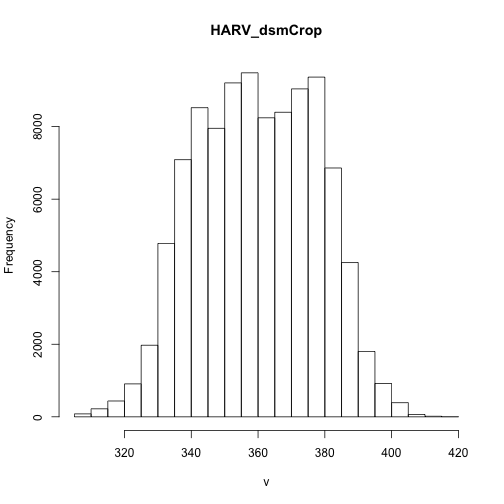
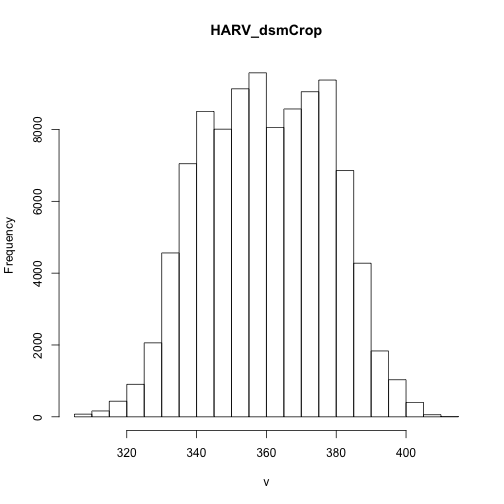
rebuilt repo

diff --git a/_posts/2015-10-26-Rast00-Raster-Structure.md b/_posts/2015-10-26-Rast00-Raster-Structure.md
@@ -4,7 +4,7 @@ title: "Lesson 00: About Raster Data"
 date:   2015-10-29
 authors: [Kristina Riemer, Zack Brym, Jason Williams, Jeff Hollister,  Mike Smorul, Leah Wasser]
 dateCreated:  2015-10-23
-lastModified: 2015-10-23
+lastModified: 2015-11-06
 category:  
 tags: [module-1]
 mainTag: GIS-Spatial-Data
@@ -21,8 +21,10 @@ comments: false
 {% include _toc.html %}
 
 ##About
-This activity will walk you through the fundamental principles of working 
-with raster data in R.
+In this lesson, we will learn 
+
+1. What raster data are and 
+2. How to open and explore raster data and properties in `R`.
 
 **R Skill Level:** Intermediate - you've got the basics of `R` down.
 
@@ -33,7 +35,9 @@ with raster data in R.
 After completing this activity, you will know:
 
 * What a raster dataset is and its fundamental attributes.
+* How to explore raster attributes in `R`
 * How to import rasters into `R` using the `raster` library.
+* How to quickly plot a raster file in `R`
 
 ###Things You'll Need To Complete This Lesson
 
@@ -57,7 +61,9 @@ Download the workshop data:
 The LiDAR and imagery data used to create the rasters in this dataset were 
 collected over the Harvard and San Joaquin field sites 
 and processed at <a href="http://www.neoninc.org" target="_blank" >NEON </a> 
-headquarters. The entire dataset can be accessed by request from the NEON website.
+headquarters. The entire dataset can be accessed by request from the 
+<a href="http://www.neoninc.org/data-resources/get-data" target="_blank"> NEON 
+website.</a>
 
 ####Recommended Pre-Lesson Reading
 
@@ -67,7 +73,7 @@ Read more about the `raster` package in R.</a>
 </div>
 
 #About Raster Data
-Raster or "gridded" data are data that are saved on a regular grid which is rendered
+Raster or "gridded" data are saved on a regular grid which is rendered
 on a map as pixels. Each pixel contains a value that represents an area on the Earth's 
 surface.
 
@@ -79,7 +85,7 @@ rasters here</a>.
 #Types of data stored as rasters
 
 Raster data can be continuous or categorical. Continuous rasters can have a 
-range of values. Some examples of continuous rasters include
+range of quantitative values. Some examples of continuous rasters include:
 
 1. Precipitation maps
 2. Maps of tree height derived from lidar data
@@ -88,10 +94,21 @@ range of values. Some examples of continuous rasters include
 A map of elevation for Harvard Forest, derived from the NEON AOP lidar sensor
 is below.
 
+
+    ## Loading required package: sp
+    ## rgdal: version: 1.1-1, (SVN revision 572)
+    ##  Geospatial Data Abstraction Library extensions to R successfully loaded
+    ##  Loaded GDAL runtime: GDAL 1.11.3, released 2015/09/16
+    ##  Path to GDAL shared files: /usr/local/Cellar/gdal/1.11.3/share/gdal
+    ##  Loaded PROJ.4 runtime: Rel. 4.9.2, 08 September 2015, [PJ_VERSION: 492]
+    ##  Path to PROJ.4 shared files: (autodetected)
+    ##  Linking to sp version: 1.2-1
+
 ![ ]({{ site.baseurl }}/images/rfigs/00-Raster-Structure/elevation-map-1.png) 
 
-We can also classify continuous rasters to identify regions that are low, medium
-and high elevation. Some examples of classified maps include
+Some rasters contain categorical data. Thus each pixel represents a class such as
+a landcover class ("forest") rathen than a continual value such as temperature.
+Some examples of classified maps include:
 
 1. landcover / landuse maps
 2. tree height maps classified short, medium, tall trees
@@ -101,11 +118,29 @@ and high elevation. Some examples of classified maps include
 
 
 #What is a geotiff??
-I think we need to introduce this format here or somewhere??
+Raster data can come in many different formats. In this lesson, we will use the 
+`geotiff` format which has the extension `.tif`. A `.tif` file can store metadata
+or attributes about the file in embedded tags. For instance, your camera might store
+a tag that describes the make and model of the camera if it saves a tiff. Or
+it might save the date the image was taken. A geotiff is a standard `.tif`  
+image format with addition spatial (georeferenceing) information embedded in the file
+as a tag. These tags can include 
+
+1. A Coordinate Reference System (CRS)
+2. Spatial Extent
+3. NoData Values 
+
+We will talk about all of these metadata tags below.
+
+More about tiffs
+
+* <a href="https://en.wikipedia.org/wiki/GeoTIFF" target="_blank"> Geotiff on Wikipedia</a>
+* <a href="https://trac.osgeo.org/geotiff/" target="_blank"> OSGEO Tiff documentation</a>
+{: notice }
 
 ##About
 
-In this lesson we will learn how to open a raster in r. We will also learn about 
+In this lesson we will learn how to open a raster in `R`. We will also learn about 
 the key metadata associated with rasters! We will use the `raster` and `rgdal`
 libraries.
 
@@ -113,6 +148,52 @@ libraries.
 
     library(raster)
     library(rgdal)
+
+##View Raster Attributes
+
+As mentioned above, a Geotiff contains a set of embedded tags that contain metadata
+about the file. We can view those tags before we open the data in `R` using the
+`GDALinfo` function. Notice a few things in the output.
+
+1. A projection is described as a string - this format is called `proj4`
+   `+proj=utm +zone=18 +datum=WGS84 +units=m +no_defs `
+2. We can se a `NoDataValue` (-9999)
+3. We can tell how many `bands` the file contains (1)
+4. We can view the x and y `resolution` of the data (1)
+5. We can see the min and max values of the data `Bmin` and `Bmax`
+
+This is great - we haven't yet opened the file but we already know some things
+about it.
+
+What else do you see in the attributes of our raster? Take note as we will 
+explore these metadata later in the lesson.
+
+
+    # view attributes before opening file
+    GDALinfo("NEON_RemoteSensing/HARV/DSM/HARV_dsmCrop.tif")
+
+    ## rows        1367 
+    ## columns     1697 
+    ## bands       1 
+    ## lower left origin.x        731453 
+    ## lower left origin.y        4712471 
+    ## res.x       1 
+    ## res.y       1 
+    ## ysign       -1 
+    ## oblique.x   0 
+    ## oblique.y   0 
+    ## driver      GTiff 
+    ## projection  +proj=utm +zone=18 +datum=WGS84 +units=m +no_defs 
+    ## file        NEON_RemoteSensing/HARV/DSM/HARV_dsmCrop.tif 
+    ## apparent band summary:
+    ##    GDType hasNoDataValue NoDataValue blockSize1 blockSize2
+    ## 1 Float64           TRUE       -9999          1       1697
+    ## apparent band statistics:
+    ##     Bmin   Bmax    Bmean      Bsd
+    ## 1 305.07 416.07 359.8531 17.83169
+    ## Metadata:
+    ## AREA_OR_POINT=Area
+
 
 ##Open up a raster in R
 
@@ -140,6 +221,7 @@ located on your computer! You can use the `setwd()` to set this.
     ## values      : 305.07, 416.07  (min, max)
 
     #quickly plot the raster
+    #note \n firces a line break in the title!
     plot(DSM, main="NEON Digital Surface Model\nHarvard Forest")
 
 ![ ]({{ site.baseurl }}/images/rfigs/00-Raster-Structure/open-raster-1.png) 
@@ -154,26 +236,29 @@ A raster will have horizontal (x and y) resolution. This resolution
 represents the area on the ground that each pixel covers. We will need to know the
 units used to calculate resolution as well. In the case of the NEON rasters, the units
 are in meters. We can find this using two methods: we can look at the `CRS` string
-which we will example in just a bit. or we can use the `DSM@data@unit` to view
-the units stored in the geotiff.
+which we will example in just a bit.
 
-#NOTE: the units aren't in the geotiff - look into whether we can add this or 
-this is another R bug!
+#NOTE: the units aren't in this geotiff. That is ok because we can find the units 
+in the `CRS`
 
 
     #view resolution units
-    DSM@data@unit
+    crs(DSM)
 
-    ## [1] ""
+    ## CRS arguments:
+    ##  +proj=utm +zone=18 +datum=WGS84 +units=m +no_defs +ellps=WGS84
+    ## +towgs84=0,0,0
+
 ## Coordinate Reference System
 
 The `Coordinate Reference System` or `CRS` is another important raster attribute.
 The `CRS` tells R where the raster is located in geographic space. It also tells 
 R what method should be used to "flatten" the raster. <<SOME LINK TO MORE ABOUT CRS>>
 
-The CRS in this case is in a `PROJ 4` format. This meanst hat the projection information
+The CRS in this case is in a `PROJ 4` format. This means that the projection information
 is strung together as a series of text elements, each of which begins with a `+`
 sign. 
+
 We'll focus on the first few components of the CRS in this lesson.
 
 * `+proj=utm` The projection of this dataset is UTM 
@@ -185,15 +270,7 @@ more on that HERE <<ADD LINK>>
 are meters. This means that if the data are 1x1 resolution, that each pixel represents
 a 1 x 1 meter area on the ground.
 
-image<UTM zone image from other lesson>
-
-
-    #view raster crs - in Proj 4 format
-    crs(DSM)
-
-    ## CRS arguments:
-    ##  +proj=utm +zone=18 +datum=WGS84 +units=m +no_defs +ellps=WGS84
-    ## +towgs84=0,0,0
+![UTM Coordinate system](http://upload.wikimedia.org/wikipedia/en/thumb/5/57/Utm-zones.svg/720px-Utm-zones.svg.png)
 
 
 #Calculate the Min and Max values for the raster
@@ -205,15 +282,18 @@ you can then call them using the same `@data` syntax that we used above to look
 at the units.
 
 
-    DSM <- setMinMax(DSM) #This step might be unnecessary
+    #This step is unnecessary if the min max values are already calculated and 
+    #stored in the tags for the raster.
+    #our raster already has these values calculated!
+    #DSM <- setMinMax(DSM) 
     
     #view min value
-    DSM@data@min
+    minValue(DSM)
 
     ## [1] 305.07
 
     #view max value
-    DSM@data@max
+    maxValue(DSM)
 
     ## [1] 416.07
 
@@ -228,49 +308,88 @@ that has a shape that isn't square or rectangular, some pixels wil have no data.
 This often happens when the data were collected by an airplane which only flew some
 of a particular region
 
+#NEED TO ADD IMAGE
 <<IMAGE SHOWING NO DATA VALUES>>
 
 If we are lucky, our geotiff file has a tag that tells us what the NoDATA value is.
 If we are less lucky, we can find that information in the raster's `metadata`. 
-in R, we can use the `NAvalues` function to see if the NoDATA attribute has been
-assigned. NOTE: `-INF` is a default value so if you see that - double check the 
-metadata!
+If a NoDataValue was stored in the `geotiff` tag, when R opens up the raster,
+it will assign each instance of that value to `NA` (no data in r world). Values
+of `NA` will be ignored by R.
 
 #Add no data values to geotiff, then add section looking for -9999 values and
 #changing to NaN (or equivalent); there would be a challenge here, because the
 #-9999 should show up as the min value
 
 
-    #view raster no data value
-    NAvalue(DSM)
+    #view raster no data value using GDAL info.
+    #for our raster, all cells with a value of -9999 were assigned by R to NA
+    GDALinfo("NEON_RemoteSensing/HARV/DSM/HARV_dsmCrop.tif")
 
-    ## [1] -Inf
+    ## rows        1367 
+    ## columns     1697 
+    ## bands       1 
+    ## lower left origin.x        731453 
+    ## lower left origin.y        4712471 
+    ## res.x       1 
+    ## res.y       1 
+    ## ysign       -1 
+    ## oblique.x   0 
+    ## oblique.y   0 
+    ## driver      GTiff 
+    ## projection  +proj=utm +zone=18 +datum=WGS84 +units=m +no_defs 
+    ## file        NEON_RemoteSensing/HARV/DSM/HARV_dsmCrop.tif 
+    ## apparent band summary:
+    ##    GDType hasNoDataValue NoDataValue blockSize1 blockSize2
+    ## 1 Float64           TRUE       -9999          1       1697
+    ## apparent band statistics:
+    ##     Bmin   Bmax    Bmean      Bsd
+    ## 1 305.07 416.07 359.8531 17.83169
+    ## Metadata:
+    ## AREA_OR_POINT=Area
 
 ## Bad data values
 
 Bad data values are different from NoData values. Sometimes a raster's metadata
 will tell us a value range of values for the raster. Sometimes, we need to use
 some practial scientific insight as we examine the data - just as we would for field
-data. For instance, in a mediterranean climate, we would not expect to see 70m 
-tall trees! 
+data. 
 
-<<Insert Image from Victoria's tower discovery at SJER>>
-
-One way to explore the range of values in our raster data is to look at a histogram.
-<<This might be covered in lesson 2??>>
+We can explore the range of values contained within our raster using the `hist`
+function which produces a histogram.
 
 
-    #view raster no data value
+
+    #view histogram of data
     hist(DSM)
+
+    ## Warning in .hist1(x, maxpixels = maxpixels, main = main, plot = plot, ...):
+    ## 4% of the raster cells were used. 100000 values used.
 
 ![ ]({{ site.baseurl }}/images/rfigs/00-Raster-Structure/view-raster-histogram-1.png) 
 
+    #oops - the histogram has a default number of pixels that it renders
+    #grab the number of pixels in the raster
+    ncell(DSM)
+
+    ## [1] 2319799
+
+    #create histogram with all pixel values in the raster
+    hist(DSM, maxpixels=ncell(DSM))
+
+![ ]({{ site.baseurl }}/images/rfigs/00-Raster-Structure/view-raster-histogram-2.png) 
+
 ## Raster Bands? ?? -- something about that here??
 
-It is important to note that rasters can be either single or multi-band. When data
-are brought in using the `raster` function, then we are only bring in one band. 
+It is important to note that rasters can be either single or multi-band. If you 
+remember, GDALinfo told us the `DSM` raster that we are working with only has
+one band. 
 
-~(Image on what bands are...)[]
+By default the `raster` function only imports the first band in a raster so we can
+use it for our `DSM`. We will explore multi-band rasters in a [later lesson 4??]()
+
+#COLIN
+![Image on what bands are...]()
 
 
 #Challenge
